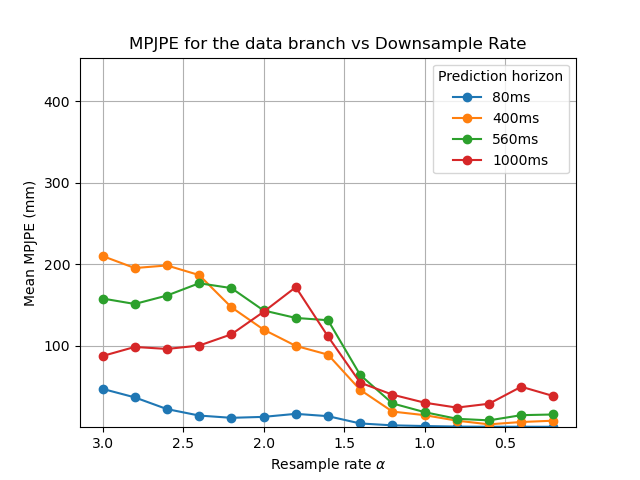
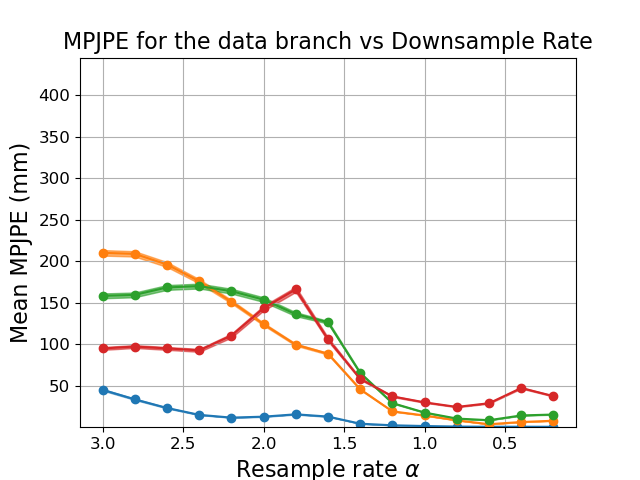
Remake plots

diff --git a/exps/run/single_evaluate_physmop.py b/exps/run/single_evaluate_physmop.py
@@ -17,6 +17,53 @@ import torch.nn.functional as F
 import os
 import math
 
+def compute_confidence_interval(mean, std, n, confidence=0.95):
+    """
+    mean: array of means
+    std: array of standard deviations
+    n: sample size (number of runs)
+    confidence: confidence level (default 0.95)
+    Returns lower and upper bounds for the confidence interval
+    """
+    from scipy.stats import norm
+    z = norm.ppf(1 - (1 - confidence) / 2)  # z-score for 95% CI ≈ 1.96
+    errors = []
+    for i, std_per_resample_rate in enumerate(std):
+        error = z * std_per_resample_rate / np.sqrt(n[i])
+        errors.append(error)
+    return mean, np.array(errors)
+
+def export_mean_error_resample_rate_csv(
+    mean, error, filename,
+    resample_rates=None, time_labels=None
+):
+    """
+    Exports mean±error to a CSV file.
+    Each row: Number of input frames, mean±error at 80ms, ..., mean±error at 1000ms
+    """
+    import csv
+    num_resample_rates = mean.shape[0]
+    num_timesteps = mean.shape[1]
+    if resample_rates is None:
+        resample_rates = list(range(num_resample_rates))
+    if time_labels is None:
+        time_labels = ["80ms", "400ms", "560ms", "1000ms"]
+
+    with open(filename, "w", newline='') as csvfile:
+        writer = csv.writer(csvfile)
+        header = (
+            ["Resample rate"] +
+            [f"Mean\pmerror at {label}" for label in time_labels]
+        )
+        writer.writerow(header)
+        for idx in range(num_resample_rates):
+            row = [f"{resample_rates[idx]:.2f}"]
+            for t in range(num_timesteps):
+                val = f"{mean[idx, t]:.2f}\pm {error[idx, t]:.2f}"
+                row.append(val)
+            writer.writerow(row)
+
+
 def _hann_lowpass_1d(x, cutoff_frac, k_min=5):
     """
     x: [B, T, F...] (time=dim1). cutoff_frac in (0,1], relative to Nyquist (1.0 == Nyquist).
@@ -90,123 +137,183 @@ selected_indices = [t + config.hist_length - 1 for t in time_idx]
 
 ds = "AMASS" 
 if __name__ == "__main__":
+    # Load in performance logs mpjpe_physmop_data.txt, mpjpe_physmop_physics.txt, mpjpe_physmop_fusion.txt if they exist and store in array
+
+    mpjpe_data_all = None
+    mpjpe_physics_gt_all = None
+    mpjpe_fusion_all = None
     downsample_rates = np.arange(3, 0.1, -0.2)
-    num_rates = len(downsample_rates)
-    selected_indices = [t + config.hist_length - 1 for t in [2, 10, 14, 25]]
 
-    # Aggregate MPJPEs for each rate (across all samples/windows)
-    mpjpe_data_by_rate = [[] for _ in range(num_rates)]
-    mpjpe_physics_by_rate = [[] for _ in range(num_rates)]
-    mpjpe_fusion_by_rate = [[] for _ in range(num_rates)]
-    preds_count_by_rate = [0 for _ in range(num_rates)]
+    if os.path.exists("resampled_physmop_data_matching_output_mean.csv"):
+        mpjpe_data_all = np.loadtxt("resampled_physmop_data_matching_output_mean.csv", delimiter=",")
+    if os.path.exists("resampled_physmop_physics_matching_output_mean.csv"):
+        mpjpe_physics_gt_all = np.loadtxt("resampled_physmop_physics_matching_output_mean.csv", delimiter=",")
+    if os.path.exists("resampled_physmop_fusion_matching_output_mean.csv"):
+        mpjpe_fusion_all = np.loadtxt("resampled_physmop_fusion_matching_output_mean.csv", delimiter=",")
 
-    with torch.no_grad():
-        realtime_model = RealtimePhysMop('ckpt/PhysMoP/2023_12_21-17_09_24_20364.pt', device='cpu')
-        data_loader = DataLoader(
-            dataset=BaseDataset_test(ds, config.DATASET_FOLDERS_TEST, config.hist_length, filter_str="treadmill_norm"),
-            batch_size=1,
-            shuffle=False,
-            num_workers=8
-        )
+    if os.path.exists("resampled_physmop_data_matching_output_std.csv"):
+        mpjpe_data_std_all = np.loadtxt("resampled_physmop_data_matching_output_std.csv", delimiter=",")
+    if os.path.exists("resampled_physmop_physics_matching_output_std.csv"):
+        mpjpe_physics_gt_std_all = np.loadtxt("resampled_physmop_physics_matching_output_std.csv", delimiter=",")
+    if os.path.exists("resampled_physmop_fusion_matching_output_std.csv"):
+        mpjpe_fusion_std_all = np.loadtxt("resampled_physmop_fusion_matching_output_std.csv", delimiter=",")
 
-        for batch_idx, batch in enumerate(tqdm(data_loader, desc="Processing samples")):
-            del batch['file_paths']
+    # Check if all three arrays were loaded
+    if mpjpe_data_all is not None and mpjpe_physics_gt_all is not None and mpjpe_fusion_all is not None:
+        print("Performance logs found.")   
 
-            for rate_idx, downsample_rate in enumerate(downsample_rates):
-                input_len = config.hist_length
-                total_len = config.total_length
+    else:
+        print("Performance logs not found. Computing from scratch...")
+        num_rates = len(downsample_rates)
+        selected_indices = [t + config.hist_length - 1 for t in [2, 10, 14, 25]]
 
-                # Compute max_start_idx for sliding window
-                if downsample_rate >= 1.0 or np.isclose(downsample_rate, 1.0):
-                    max_end_index = int(round(total_len * downsample_rate))
-                    max_start_idx = batch['q'].shape[1] - max_end_index
-                    max_start_idx = max(0, max_start_idx)
-                else:
-                    max_start_idx = batch['q'].shape[1] - total_len
-                    max_start_idx = max(0, max_start_idx)
+        # Aggregate MPJPEs for each rate (across all samples/windows)
+        mpjpe_data_by_rate = [[] for _ in range(num_rates)]
+        mpjpe_physics_by_rate = [[] for _ in range(num_rates)]
+        mpjpe_fusion_by_rate = [[] for _ in range(num_rates)]
+        preds_count_by_rate = [0 for _ in range(num_rates)]
 
-                stride = 20
-                for start_idx in range(0, max_start_idx + 1, stride):
-                    processed_batch = {}
+        with torch.no_grad():
+            realtime_model = RealtimePhysMop('ckpt/PhysMoP/2023_12_21-17_09_24_20364.pt', device='cpu')
+            data_loader = DataLoader(
+                dataset=BaseDataset_test(ds, config.DATASET_FOLDERS_TEST, config.hist_length, filter_str="treadmill_norm"),
+                batch_size=1,
+                shuffle=False,
+                num_workers=8
+            )
+
+            for batch_idx, batch in enumerate(tqdm(data_loader, desc="Processing samples")):
+                del batch['file_paths']
+
+                for rate_idx, downsample_rate in enumerate(downsample_rates):
+                    input_len = config.hist_length
+                    total_len = config.total_length
+
+                    # Compute max_start_idx for sliding window
                     if downsample_rate >= 1.0 or np.isclose(downsample_rate, 1.0):
-                        src_span = int(round(total_len * downsample_rate))
-                        src_start = start_idx
-                        src_end = src_start + src_span
-                        for k, v in batch.items():
-                            if not isinstance(v, torch.Tensor):
-                                processed_batch[k] = v
-                                continue
-                            src_seq = v[:, src_start:src_end, ...]
-                            processed_batch[k] = resample_with_history_boundary_anchored(
-                                src_seq, total_len, float(downsample_rate), antialias=False
-                            )
+                        max_end_index = int(round(total_len * downsample_rate))
+                        max_start_idx = batch['q'].shape[1] - max_end_index
+                        max_start_idx = max(0, max_start_idx)
                     else:
-                        for k, v in batch.items():
-                            if not isinstance(v, torch.Tensor):
-                                processed_batch[k] = v
-                                continue
-                            src_seq = v[:, start_idx : start_idx + total_len, ...]
-                            upsample_factor = 1.0 / downsample_rate
-                            b, t = src_seq.shape[0], src_seq.shape[1]
-                            rest_shape = src_seq.shape[2:]
-                            feat = int(np.prod(rest_shape))
-                            src_perm = src_seq.reshape(b, t, feat).permute(0, 2, 1)
-                            new_time = int(np.round(t * upsample_factor))
-                            up = F.interpolate(src_perm, size=new_time, mode='linear', align_corners=True)
-                            up_perm = up.permute(0, 2, 1).reshape(1, new_time, *rest_shape)
-                            up_seq = up_perm[:, -total_len:, ...]
-                            processed_batch[k] = up_seq
+                        max_start_idx = batch['q'].shape[1] - total_len
+                        max_start_idx = max(0, max_start_idx)
 
-                    # Model prediction and metric aggregation
-                    model_output, batch_info = realtime_model.predict(processed_batch)
-                    gt_J, pred_J_data, pred_J_physics_gt, pred_J_fusion = realtime_model.model_output_to_3D_joints(
-                        model_output, batch_info, mode='test'
-                    )
-                    eval_results = realtime_model.evaluation_metrics(
-                        gt_J, pred_J_data, pred_J_physics_gt, pred_J_fusion
-                    )
-                    mpjpe_data = np.mean([eval_results['error_test_data_upper'][0], eval_results['error_test_data_lower'][0]], axis=0)
-                    mpjpe_physics = np.mean([eval_results['error_test_physics_gt_upper'][0], eval_results['error_test_physics_gt_lower'][0]], axis=0)
-                    mpjpe_fusion = np.mean([eval_results['error_test_fusion_upper'][0], eval_results['error_test_fusion_lower'][0]], axis=0)
+                    stride = 20
+                    for start_idx in range(0, max_start_idx + 1, stride):
+                        processed_batch = {}
+                        if downsample_rate >= 1.0 or np.isclose(downsample_rate, 1.0):
+                            src_span = int(round(total_len * downsample_rate))
+                            src_start = start_idx
+                            src_end = src_start + src_span
+                            for k, v in batch.items():
+                                if not isinstance(v, torch.Tensor):
+                                    processed_batch[k] = v
+                                    continue
+                                src_seq = v[:, src_start:src_end, ...]
+                                processed_batch[k] = resample_with_history_boundary_anchored(
+                                    src_seq, total_len, float(downsample_rate), antialias=False
+                                )
+                        else:
+                            for k, v in batch.items():
+                                if not isinstance(v, torch.Tensor):
+                                    processed_batch[k] = v
+                                    continue
+                                src_seq = v[:, start_idx : start_idx + total_len, ...]
+                                upsample_factor = 1.0 / downsample_rate
+                                b, t = src_seq.shape[0], src_seq.shape[1]
+                                rest_shape = src_seq.shape[2:]
+                                feat = int(np.prod(rest_shape))
+                                src_perm = src_seq.reshape(b, t, feat).permute(0, 2, 1)
+                                new_time = int(np.round(t * upsample_factor))
+                                up = F.interpolate(src_perm, size=new_time, mode='linear', align_corners=True)
+                                up_perm = up.permute(0, 2, 1).reshape(1, new_time, *rest_shape)
+                                up_seq = up_perm[:, -total_len:, ...]
+                                processed_batch[k] = up_seq
 
-                    # Aggregate all selected indices for this rate
-                    mpjpe_data_by_rate[rate_idx].append(mpjpe_data[selected_indices])
-                    mpjpe_physics_by_rate[rate_idx].append(mpjpe_physics[selected_indices])
-                    mpjpe_fusion_by_rate[rate_idx].append(mpjpe_fusion[selected_indices])
-                    preds_count_by_rate[rate_idx] += 1
+                        # Model prediction and metric aggregation
+                        model_output, batch_info = realtime_model.predict(processed_batch)
+                        gt_J, pred_J_data, pred_J_physics_gt, pred_J_fusion = realtime_model.model_output_to_3D_joints(
+                            model_output, batch_info, mode='test'
+                        )
+                        eval_results = realtime_model.evaluation_metrics(
+                            gt_J, pred_J_data, pred_J_physics_gt, pred_J_fusion
+                        )
+                        mpjpe_data = np.mean([eval_results['error_test_data_upper'][0], eval_results['error_test_data_lower'][0]], axis=0)
+                        mpjpe_physics = np.mean([eval_results['error_test_physics_gt_upper'][0], eval_results['error_test_physics_gt_lower'][0]], axis=0)
+                        mpjpe_fusion = np.mean([eval_results['error_test_fusion_upper'][0], eval_results['error_test_fusion_lower'][0]], axis=0)
 
-    # Compute mean and std for each rate
-    mpjpe_data_mean = np.array([np.mean(mpjpe_data_by_rate[i], axis=0) for i in range(num_rates)])
-    mpjpe_data_std  = np.array([np.std(mpjpe_data_by_rate[i], axis=0)  for i in range(num_rates)])
-    mpjpe_physics_mean = np.array([np.mean(mpjpe_physics_by_rate[i], axis=0) for i in range(num_rates)])
-    mpjpe_physics_std  = np.array([np.std(mpjpe_physics_by_rate[i], axis=0)  for i in range(num_rates)])
-    mpjpe_fusion_mean = np.array([np.mean(mpjpe_fusion_by_rate[i], axis=0) for i in range(num_rates)])
-    mpjpe_fusion_std  = np.array([np.std(mpjpe_fusion_by_rate[i], axis=0)  for i in range(num_rates)])
+                        # Aggregate all selected indices for this rate
+                        mpjpe_data_by_rate[rate_idx].append(mpjpe_data[selected_indices])
+                        mpjpe_physics_by_rate[rate_idx].append(mpjpe_physics[selected_indices])
+                        mpjpe_fusion_by_rate[rate_idx].append(mpjpe_fusion[selected_indices])
+                        preds_count_by_rate[rate_idx] += 1
 
-    # Save prediction counts per downsample rate
-    mpjpe_counts_all = np.array(preds_count_by_rate)
-    print("Predictions per downsample rate:", mpjpe_counts_all)
+        # Compute mean and std for each rate
+        mpjpe_data_mean = np.array([np.mean(mpjpe_data_by_rate[i], axis=0) for i in range(num_rates)])
+        mpjpe_data_std  = np.array([np.std(mpjpe_data_by_rate[i], axis=0)  for i in range(num_rates)])
+        mpjpe_physics_mean = np.array([np.mean(mpjpe_physics_by_rate[i], axis=0) for i in range(num_rates)])
+        mpjpe_physics_std  = np.array([np.std(mpjpe_physics_by_rate[i], axis=0)  for i in range(num_rates)])
+        mpjpe_fusion_mean = np.array([np.mean(mpjpe_fusion_by_rate[i], axis=0) for i in range(num_rates)])
+        mpjpe_fusion_std  = np.array([np.std(mpjpe_fusion_by_rate[i], axis=0)  for i in range(num_rates)])
 
-    # Save performance logs
-    mpjpe_data_mean = np.column_stack((mpjpe_data_mean, mpjpe_counts_all))
-    mpjpe_physics_mean = np.column_stack((mpjpe_physics_mean, mpjpe_counts_all))
-    mpjpe_fusion_mean = np.column_stack((mpjpe_fusion_mean, mpjpe_counts_all))
-    header = ["80ms", "400ms", "560ms", "1000ms", "n_predictions"]
-    np.savetxt("resampled_physmop_data_consistent_output_mean.csv", mpjpe_data_mean, delimiter=",", header=",".join(header))
-    np.savetxt("resampled_physmop_physics_consistent_output_mean.csv", mpjpe_physics_mean, delimiter=",", header=",".join(header))
-    np.savetxt("resampled_physmop_fusion_consistent_output_mean.csv", mpjpe_fusion_mean, delimiter=",", header=",".join(header))
-    np.savetxt("resampled_physmop_data_consistent_output_std.csv", mpjpe_data_std, delimiter=",")
-    np.savetxt("resampled_physmop_physics_consistent_output_std.csv", mpjpe_physics_std, delimiter=",")
-    np.savetxt("resampled_physmop_fusion_consistent_output_std.csv", mpjpe_fusion_std, delimiter=",")
+        # Save prediction counts per downsample rate
+        mpjpe_counts_all = np.array(preds_count_by_rate)
+        print("Predictions per downsample rate:", mpjpe_counts_all)
+
+        # Save performance logs
+        mpjpe_data_mean = np.column_stack((mpjpe_data_mean, mpjpe_counts_all))
+        mpjpe_physics_mean = np.column_stack((mpjpe_physics_mean, mpjpe_counts_all))
+        mpjpe_fusion_mean = np.column_stack((mpjpe_fusion_mean, mpjpe_counts_all))
+        header = ["80ms", "400ms", "560ms", "1000ms", "n_predictions"]
+        np.savetxt("resampled_physmop_data_matching_output_mean.csv", mpjpe_data_mean, delimiter=",", header=",".join(header))
+        np.savetxt("resampled_physmop_physics_matching_output_mean.csv", mpjpe_physics_mean, delimiter=",", header=",".join(header))
+        np.savetxt("resampled_physmop_fusion_matching_output_mean.csv", mpjpe_fusion_mean, delimiter=",", header=",".join(header))
+        np.savetxt("resampled_physmop_data_matching_output_std.csv", mpjpe_data_std, delimiter=",")
+        np.savetxt("resampled_physmop_physics_matching_output_std.csv", mpjpe_physics_std, delimiter=",")
+        np.savetxt("resampled_physmop_fusion_matching_output_std.csv", mpjpe_fusion_std, delimiter=",")
 
 
-    mjpe_gcnext_all = np.loadtxt("mpjpe_gcnext.txt", delimiter=",")
+    mjpe_gcnext_all = np.loadtxt("resampled_gcn_matching_output_gcn_mean.csv", delimiter=",")
+    mjpe_gcnext_std_all = np.loadtxt("resampled_gcn_matching_output_gcn_std.csv", delimiter=",")
 
+    # Seperate mean and n_predictions for all logs
+    mpjpe_data_all, data_n_predictions = mpjpe_data_all[:, :-1], mpjpe_data_all[:, -1]
+    data_mean, data_confidence_interval = compute_confidence_interval(mpjpe_data_all, mpjpe_data_std_all, data_n_predictions)
+
+    mpjpe_physics_gt_all, physics_n_predictions = mpjpe_physics_gt_all[:, :-1], mpjpe_physics_gt_all[:, -1]
+    physics_mean, physics_confidence_interval = compute_confidence_interval(mpjpe_physics_gt_all, mpjpe_physics_gt_std_all, physics_n_predictions)
+
+    mpjpe_fusion_all, fusion_n_predictions = mpjpe_fusion_all[:, :-1], mpjpe_fusion_all[:, -1]
+    fusion_mean, fusion_confidence_interval = compute_confidence_interval(mpjpe_fusion_all, mpjpe_fusion_std_all, fusion_n_predictions)
+
+    mjpe_gcnext_all, gcnext_n_predictions = mjpe_gcnext_all[:, :-1], mjpe_gcnext_all[:, -1]
+    gcnext_mean, gcnext_confidence_interval = compute_confidence_interval(mjpe_gcnext_all, mjpe_gcnext_std_all, gcnext_n_predictions)
+
+    # Export CSVs for easy table generation
+    export_mean_error_resample_rate_csv(
+        data_mean, data_confidence_interval,
+        "resampled_physmop_data_matching_output_mean_with_error.csv",
+        resample_rates=downsample_rates,
+        time_labels=["80ms", "400ms", "560ms", "1000ms"]
+    )
+    export_mean_error_resample_rate_csv(
+        physics_mean, physics_confidence_interval,
+        "resampled_physmop_physics_matching_output_mean_with_error.csv",
+        resample_rates=downsample_rates,
+        time_labels=["80ms", "400ms", "560ms", "1000ms"]
+    )
+    export_mean_error_resample_rate_csv(
+        gcnext_mean, gcnext_confidence_interval,
+        "resampled_gcn_matching_output_gcn_mean_with_error.csv",
+        resample_rates=downsample_rates,
+        time_labels=["80ms", "400ms", "560ms", "1000ms"]
+    )
+    
     branch_results = {
-        "data": mpjpe_data_all,
-        "physics_gt": mpjpe_physics_gt_all,
-        "fusion": mpjpe_fusion_all,
-        "gcnext": mjpe_gcnext_all
+        "data": data_mean,
+        "physics_gt": physics_mean,
+        "fusion": fusion_mean,
+        "gcnext": gcnext_mean
     }
     branch_titles = {
         "data": "MPJPE for the data branch vs Downsample Rate",
@@ -222,10 +329,10 @@ if __name__ == "__main__":
     }
 
     all_arrays = [
-    mpjpe_data_all,
-    mpjpe_physics_gt_all,
-    mpjpe_fusion_all,
-    mjpe_gcnext_all
+    data_mean,
+    physics_mean,
+    fusion_mean,
+    gcnext_mean
     ]
 
     all_data = np.concatenate([arr.flatten() for arr in all_arrays if arr is not None])
@@ -237,12 +344,39 @@ if __name__ == "__main__":
         plt.figure()
         for i, label in enumerate(["80ms", "400ms", "560ms", "1000ms"]):
             plt.plot(downsample_rates, results[:, i], marker='o', label=label)
-        plt.xlabel(r'Resample rate $\alpha$')
-        plt.ylabel(r'Mean MPJPE (mm)')
-        plt.title(branch_titles[branch])
+        plt.xlabel(r'Resample rate $\alpha$', fontsize=16)
+        plt.ylabel(r'Mean MPJPE (mm)', fontsize=16)
+        plt.title(branch_titles[branch], fontsize=16)
+        plt.tick_params(axis='both', which='major', labelsize=12)
         plt.gca().invert_xaxis()
         plt.grid(True)
-        plt.legend(title='Prediction horizon')
+        # plt.legend(title='Prediction horizon')
         plt.ylim(y_limits)
         plt.savefig(branch_filenames[branch])
         plt.close()
+    
+    labels = ["80ms", "400ms", "560ms", "1000ms"]
+    markers = ['o', 'o', 'o', 'o']
+    colors = ['C0', 'C1', 'C2', 'C3']
+
+    fig, ax = plt.subplots(figsize=(4, 1))
+    lines = [
+        plt.Line2D([0], [0], marker = markers[i], color=colors[i], linestyle='-', label=labels[i], linewidth=1.5)
+        for i in range(len(labels))
+    ]
+    legend = ax.legend(
+        handles=lines,
+        title='Prediction horizon',
+        loc='lower center',
+        frameon=False,
+        fontsize=11,
+        title_fontsize=12,
+        ncol=len(labels),  # All in one row
+        handletextpad=2,   # Increase space between marker and label
+        columnspacing=2
+    )
+    legend.get_title().set_position((0,10))
+    ax.axis('off')
+
+    fig.savefig("legend_prediction_horizon.png", bbox_inches='tight', pad_inches=0.05)
+    plt.close(fig)
